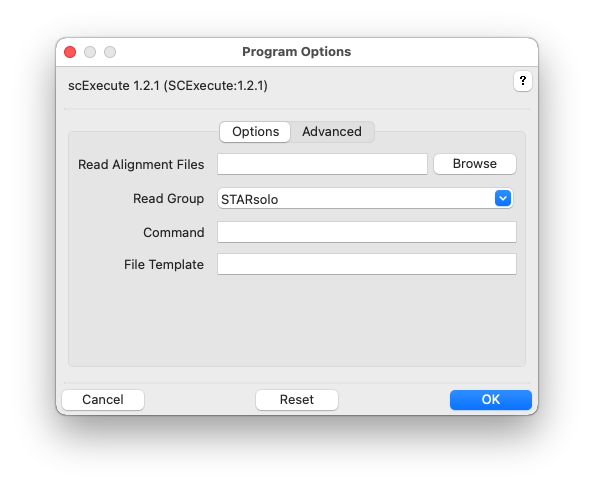
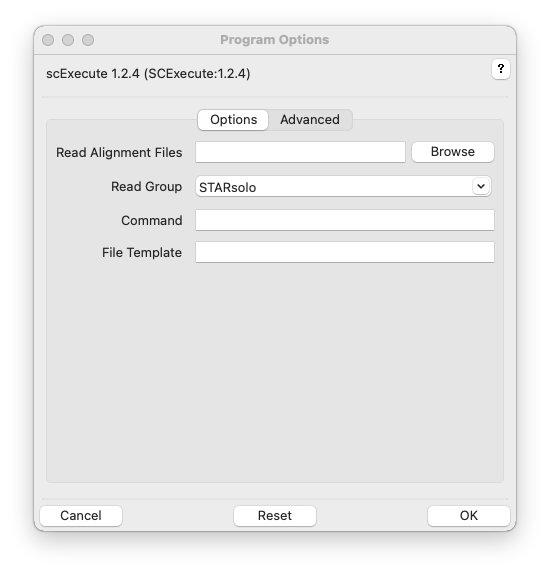
Update documentation for new release

Changed region(s): [[0.0309, 0.0307, 0.9582, 0.9509], [0.4945, 0.184, 0.6182, 0.2147]]

diff --git a/SCExecute/src/scExecute.py b/SCExecute/src/scExecute.py
@@ -71,15 +71,15 @@ parser.add_option("-G", "--readgroup", type="choice", dest="readgroup", default=
 parser.add_option("-C", "--command", type="string", dest="command", default="", remember=True,
                   help="Command to execute for each read-group specific BAM file. The BAM filename replaces {} in the command or placed at the end of the command if no {} is present. At least one of Command/--command/-C and/or File Template/--filetemplate/-F must be specified.", name="Command")
 parser.add_option("-F", "--filetemplate", type="string", dest="filetempl", default="", remember=True,
-                  help="Filename template for each read-group specific BAM file. Use {ORIBASE} and {BARCODE} to construct the filename, must end in \".bam\". At least one of Command/--command/-C and/or File Template/--filetemplate/-F must be specified.", name="File Template")
+                  help="Filename template for each read-group specific BAM file. Use {BAMBASE} and {BARCODE} to construct the filename. The read-group specific BAM file should end in \".bam\" and will not be deleted after the command, if specified, is run. At least one of Command/--command/-C and/or File Template/--filetemplate/-F must be specified.", name="File Template")
 advanced.add_option("-D", "--directory", type="str", dest="directory", default="", remember=True,
-                    help="Working directory for running command on each read-group specific BAM file. Default: Current working directory.", name="Directory")
+                    help="Working directory for running command on each read-group specific BAM file. Default: Current working directory.", name="Directory Template")
 advanced.add_option("-o", "--outtemplate", type="string", dest="stdouttempl", default="", remember=True,
-                  help="Filename template for the standard output of each read-group specific command execution. Use {ORIBASE} and {BARCODE} to construct the filename. Default: Standard Output of command not captured.", name="Output Template")
+                  help="Filename template for the standard output of each read-group specific command execution. Use {BAMBASE} and {BARCODE} to construct the filename. Default: Standard Output of command not captured.", name="Output Template")
 advanced.add_option("-l", "--logtemplate", type="string", dest="stderrtempl", default="", remember=True,
-                  help="Filename template for the standard error of each read-group specific command execution. Use {ORIBASE} and {BARCODE} to construct the filename. Default: Standard error of command not captured.", name="Error Template")
+                  help="Filename template for the standard error of each read-group specific command execution. Use {BAMBASE} and {BARCODE} to construct the filename. Default: Standard error of command not captured.", name="Error Template")
 advanced.add_option("-O", "--allouttemplate", type="string", dest="allouttempl", default="", remember=True,
-                  help="Filename template for the standard output and standard error of each read-group specific command execution. Use {ORIBASE} and {BARCODE} to construct the filename. Default: Output/Error of command not captured.", name="All Output Template")
+                  help="Filename template for the standard output and standard error of each read-group specific command execution. Use {BAMBASE} and {BARCODE} to construct the filename. Default: Output/Error of command not captured.", name="All Output Template")
 advanced.add_option("-L", "--limit", type="string", dest="limit", default="", remember=True,
                     help="Generate at most this many read-group specific BAM files. Default: No limit.", name="Limit")
 advanced.add_option("-R", "--region", type="str", dest="region", default="", remember=True,
@@ -217,7 +217,7 @@ scExecute Options:
   File Template (-F):         %s
 
   Advanced:
-    Directory (-D):           %s
+    Directory Template (-D):  %s
     Output Template (-o):     %s
     Error Template (-l):      %s
     All Output Template (-O): %s
@@ -281,9 +281,9 @@ def execution_worker(execution_queue,output_lock):
                  "{RGPATH}": bampath, # Full path to generated BAM file
                  "{RGFILE}": bamfile, # Filename part of generated BAM file
                  "{RGBASE}": bambase, # Filename of gerated BAM file, no .bam
-                 "{ORIPATH}": origbam, # Input/Original BAM, full path
-                 "{ORIFILE}": orifile, # Input/Original BAM, filename part
-                 "{ORIBASE}": oribase, # Input/Original BAM, filename part, no .bam
+                 "{BAMPATH}": origbam, # Input/Original BAM, full path
+                 "{BAMFILE}": orifile, # Input/Original BAM, filename part
+                 "{BAMBASE}": oribase, # Input/Original BAM, filename part, no .bam
                  "{BFINDEX}": str(i0), # Original BAM file index
                  "{RGINDEX}": str(i1), # Read Group index
                  "{CBINDEX}": str(i1), # Cell-Barcode index
@@ -336,6 +336,8 @@ def execution_worker(execution_queue,output_lock):
                     stderr=subprocess.STDOUT
                 result = None
                 start = time.time()
+                if not os.path.exists(theworkingdir):
+                    os.makedirs(os.path.abspath(theworkingdir),exists_ok=True)
                 result = subprocess.run(thecommand,shell=True,check=True,
                                         cwd=theworkingdir,stdin=subprocess.DEVNULL,
                                         stdout=stdout,stderr=stderr)

diff --git a/SCExecute/docs/Usage.md b/SCExecute/docs/Usage.md
@@ -41,11 +41,11 @@ Read Group, -G READGROUP, --readgroup=READGROUP
 
 Command, -C COMMAND, --command=COMMAND
 
-> Command to execute for each read-group specific BAM file. The BAM filename replaces {} in the command or is placed at the end of the command if no {} is present. One of Command/--command/-C or File Template/--filetemplate/-F must be specified.
+> Command to execute for each read-group specific BAM file. The read-group specific BAM filename replaces {} in the command or is placed at the end of the command if no {} is present. Use {BARCODE} in command as needed. At least one of Command/--command/-C or File Template/--filetemplate/-F must be specified.
 
-File Template, -F FILE-TEMPLATE, --filetempl=FILE-TEMPLATE
+File Template, -F TEMPLATE, --filetemplate=TEMPLATE
 
-> File template for each read-group specific BAM file. Use {BAMBASE} and {BARCODE} to construct the filename. One of Command/--command/-C or File Template/--filetemplate/-F must be specified.
+> File template for each read-group specific BAM file. Use {BAMBASE} and {BARCODE} to construct the filename. The read-group specific BAM file should end in ".bam" and will not be deleted after the command, if specified, is run. At least one of Command/--command/-C or File Template/--filetemplate/-F must be specified.
 
 --version
 
@@ -57,6 +57,18 @@ File Template, -F FILE-TEMPLATE, --filetempl=FILE-TEMPLATE
 
 ### Advanced
 <img src="advanced.png" alt="Advanced"/>
+
+Directory Template, -D TEMPLATE, --directory=TEMPLATE
+> Working directory for running command on each read-group specific BAM file. Default: Current working directory.
+
+Output Template, -o TEMPLATE, --outtemplate=TEMPLATE
+> Filename template for the standard output of each read-group specific command execution. Use {BAMBASE} and {BARCODE} to construct the filename. Default: Standard Output of command not captured.
+
+Error Template, -e TEMPLATE, --errtemplate=TEMPLATE
+> Filename template for the standard error of each read-group specific command execution. Use {BAMBASE} and {BARCODE} to construct the filename. Default: Standard error of command not captured.
+
+All Output Template, -O TEMPLATE, --allouttemplate=TEMPLATE
+> Filename template for the standard output and standard error of each read-group specific command execution.  Use {BAMBASE} and {BARCODE} to construct the filename. Default: Output/Error of command not captured.
 
 Limit, -L N, --limit=N
 
